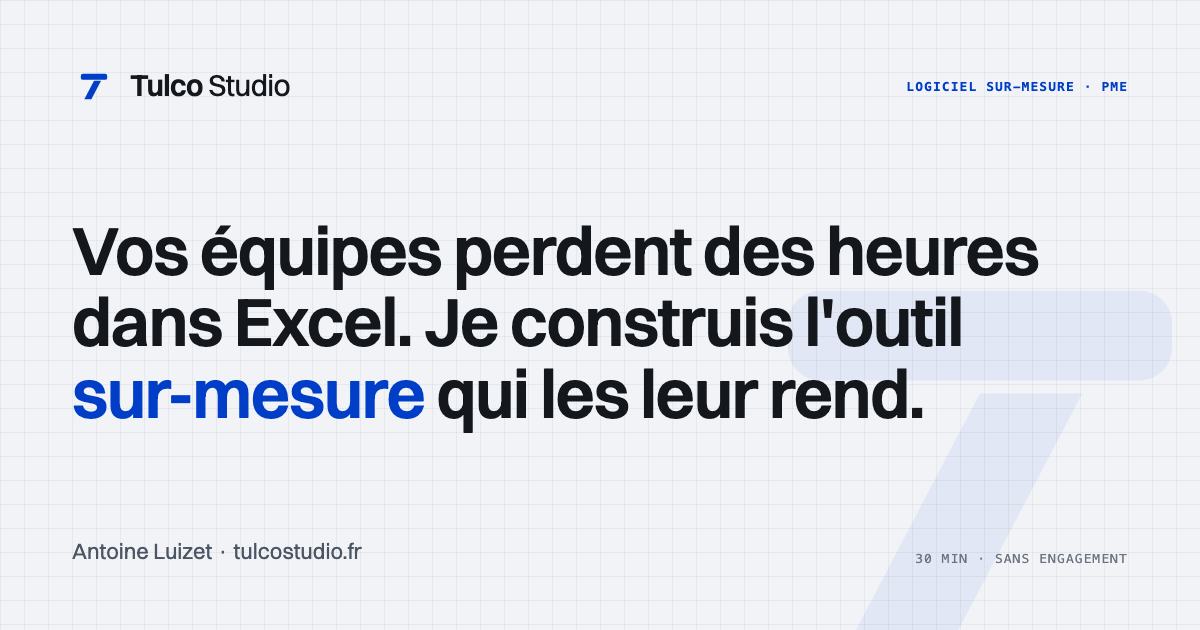
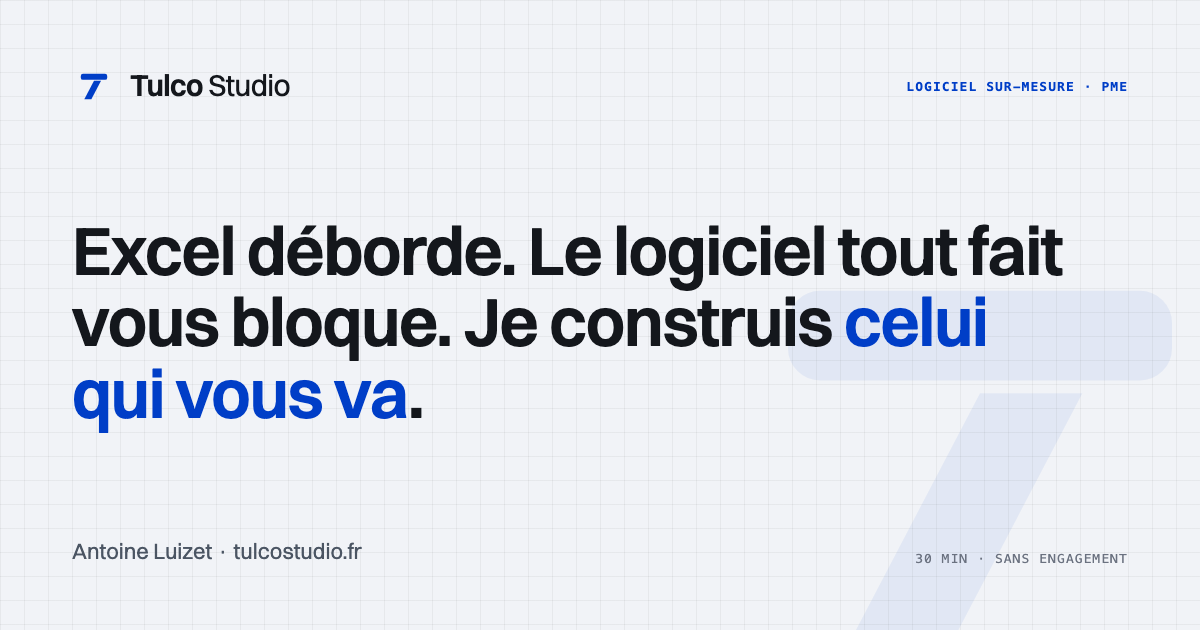
Hero: new positioning around Excel + logiciel tout fait
New title: 'Excel déborde. Le logiciel tout fait vous bloque.
Je construis celui qui vous va.'
New subtitle: 'Un outil taillé pour votre métier, livré vite,
sans la facture d'une agence. Vous parlez directement à celui
qui construit.'

Aligned everything that quoted the old hero:
- meta description (search/Google snippet)
- og:description and twitter:description (LinkedIn/Twitter unfurls)
- og.png regenerated with the new headline, 'celui qui vous va'
  set in Tulco Blue as the punchline

Body sections (Le constat, La solution, Pour qui, Footer) still
carry the previous Excel-only framing. Pending decision whether
to align them in the same pass.

Changed region(s): [[0.0617, 0.3317, 0.8942, 0.6937]]

diff --git a/index.html b/index.html
@@ -5,12 +5,12 @@
 <meta name="viewport" content="width=device-width, initial-scale=1">
 <link rel="icon" type="image/svg+xml" href="favicon.svg">
 <title>Tulco Studio · Logiciel sur-mesure pour PME</title>
-<meta name="description" content="Logiciels métier sur-mesure pour PME. Je conçois et développe l'outil qui remplace Excel et libère vos équipes. 30 min sans engagement.">
+<meta name="description" content="Excel déborde, le logiciel tout fait vous bloque. Je construis l'outil sur-mesure taillé pour votre métier, livré vite, sans la facture d'une agence. 30 min sans engagement.">
 <meta property="og:type" content="website">
 <meta property="og:url" content="https://www.tulcostudio.fr/">
 <meta property="og:site_name" content="Tulco Studio">
 <meta property="og:title" content="Tulco Studio · Logiciel sur-mesure pour PME">
-<meta property="og:description" content="Vos équipes perdent des heures dans Excel. Je construis l'outil sur-mesure qui les leur rend.">
+<meta property="og:description" content="Excel déborde. Le logiciel tout fait vous bloque. Je construis celui qui vous va.">
 <meta property="og:image" content="https://www.tulcostudio.fr/og.png">
 <meta property="og:image:width" content="1200">
 <meta property="og:image:height" content="630">
@@ -18,7 +18,7 @@
 <meta property="og:locale" content="fr_FR">
 <meta name="twitter:card" content="summary_large_image">
 <meta name="twitter:title" content="Tulco Studio · Logiciel sur-mesure pour PME">
-<meta name="twitter:description" content="Vos équipes perdent des heures dans Excel. Je construis l'outil sur-mesure qui les leur rend.">
+<meta name="twitter:description" content="Excel déborde. Le logiciel tout fait vous bloque. Je construis celui qui vous va.">
 <meta name="twitter:image" content="https://www.tulcostudio.fr/og.png">
 <script src="./support.js"></script>
 </head>
@@ -80,8 +80,8 @@
     <div style="position: relative; max-width: var(--container-max); margin: 0 auto; padding: clamp(56px,10vw,120px) clamp(20px,5vw,64px) clamp(40px,7vw,72px);">
       <div style="max-width: 900px;">
         <div style="font-family: var(--font-mono); font-size: 12px; font-weight: 600; text-transform: uppercase; letter-spacing: 0.08em; color: var(--accent); margin-bottom: 16px;">Logiciel sur-mesure · PME</div>
-        <h1 style="margin: 0; font-weight: 600; font-size: clamp(36px,6vw,78px); line-height: var(--leading-tight); letter-spacing: var(--tracking-display); color: var(--text-primary);">Vos équipes perdent des heures dans Excel. Je construis l'outil qui les leur rend.</h1>
-        <p style="margin: 28px 0 0; max-width: 620px; font-size: var(--text-md); line-height: var(--leading-relaxed); color: var(--text-secondary);">Tableurs qui débordent, saisie manuelle, copier-coller à n'en plus finir. Je conçois et développe le logiciel sur-mesure qui automatise tout ça, sans les délais ni la facture d'une agence. Vous parlez directement à celui qui construit.</p>
+        <h1 style="margin: 0; font-weight: 600; font-size: clamp(36px,6vw,78px); line-height: var(--leading-tight); letter-spacing: var(--tracking-display); color: var(--text-primary);">Excel déborde. Le logiciel tout fait vous bloque. Je construis celui qui vous va.</h1>
+        <p style="margin: 28px 0 0; max-width: 620px; font-size: var(--text-md); line-height: var(--leading-relaxed); color: var(--text-secondary);">Un outil taillé pour votre métier, livré vite, sans la facture d'une agence. Vous parlez directement à celui qui construit.</p>
         <div style="display: flex; gap: 12px; margin-top: 36px; flex-wrap: wrap;">
           <x-import component-from-global-scope="TulcoStudioDesignSystem_ac5776.Button" variant="primary" size="lg" onClick="{{ openBooking }}" hint-size="240px,50px">Réserver un appel de 30 min</x-import>
           <x-import component-from-global-scope="TulcoStudioDesignSystem_ac5776.Button" variant="secondary" size="lg" onClick="{{ jumpRealisations }}" hint-size="200px,50px">Voir des exemples concrets</x-import>

diff --git a/og-card.html b/og-card.html
@@ -97,7 +97,7 @@
   </div>
 
   <div class="headline">
-    Vos équipes perdent des heures dans Excel. Je construis l'outil <span class="accent">sur-mesure</span> qui les leur rend.
+    Excel déborde. Le logiciel tout fait vous bloque. Je construis <span class="accent">celui qui vous va</span>.
   </div>
 
   <div class="footer">